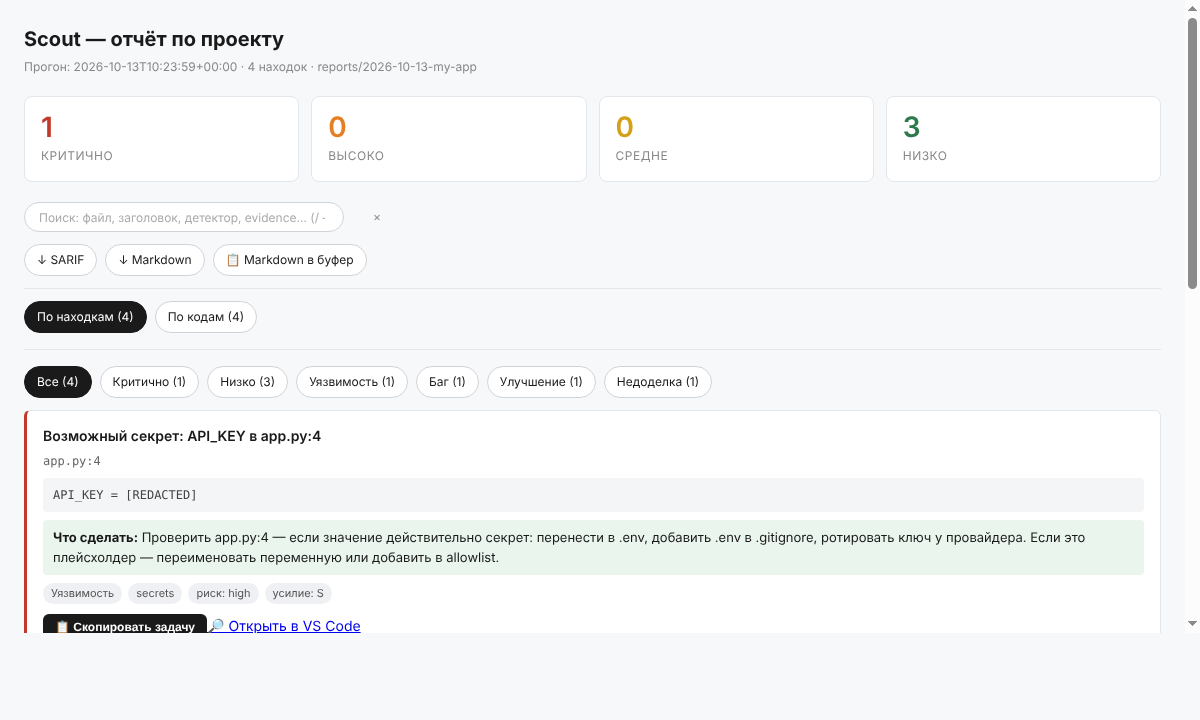
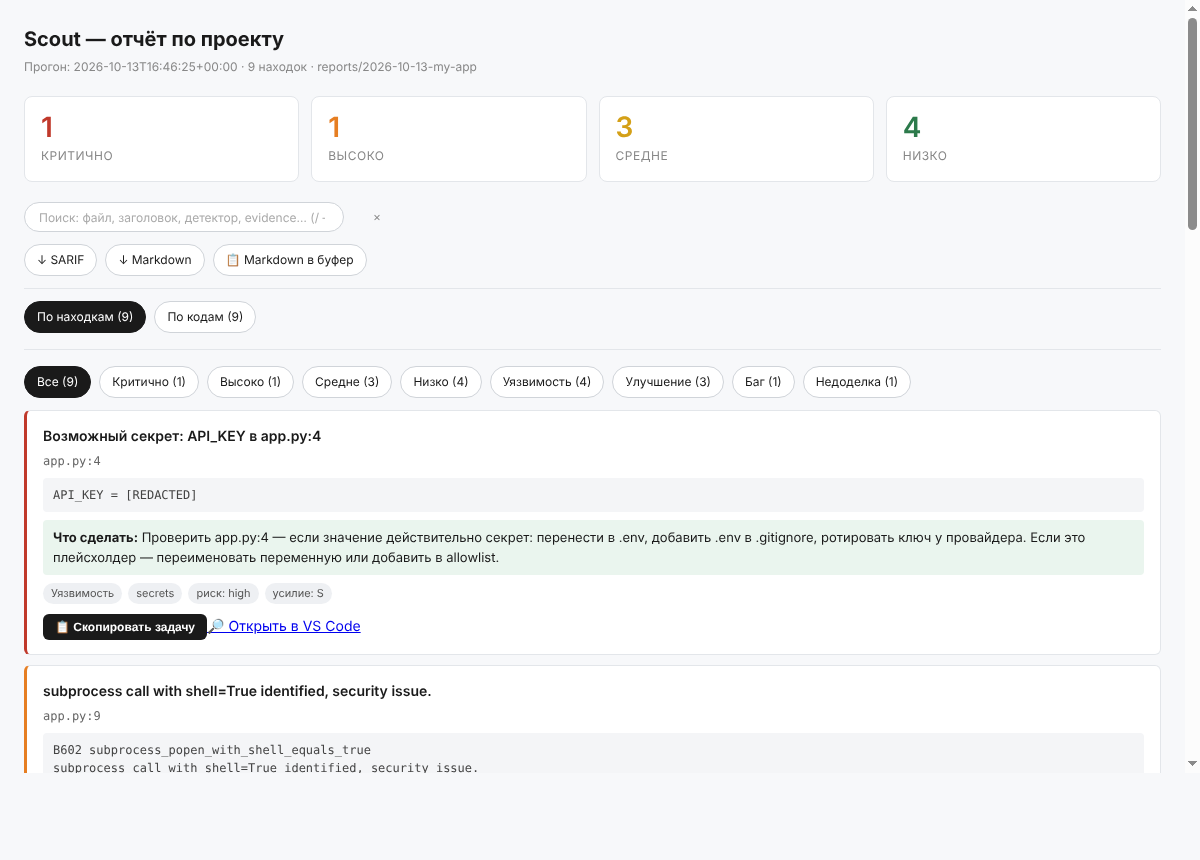
fix: interrogate detector never worked; examples on the full detector set
Running all 14 detectors for the first time (doctor.py --yes in a clean venv)
exposed two silent failures:

- interrogate: the detector called a non-existent --json flag, so it always
  returned 0 findings. It now parses the 'interrogate -v' summary table
  (excluding service dirs, ignoring empty __init__.py).
- semgrep: --config auto needs semgrep.dev and enabled metrics; without
  network it exits 2 after ~100s. Behaviour unchanged, but scan.log now says
  why, and the docs describe the requirement.

Also: examples/demo.py disables semgrep in the throwaway project (3.5 min ->
6 s with all tools installed). Docs/README examples and the dashboard
screenshot are regenerated from a real run (9 findings from 12 detectors).
Tests: interrogate table parsing; e2e tests no longer depend on which
detectors are installed and skip semgrep/pyscn (full-tools run: 231s -> 31s).

Claude-Session: https://claude.ai/code/session_011P9vmdaHSQ4VeJUeNAvU6r

diff --git a/tools/scan.py b/tools/scan.py
@@ -802,34 +802,58 @@ def detect_pip_outdated(project, log):
 
 
 
+def _parse_interrogate_table(text):
+    """Строки сводной таблицы `interrogate -v` -> [(файл, всего, пропущено, %)].
+
+    У interrogate нет машинного вывода (флага --json не существует), поэтому
+    разбираем таблицу: | файл | всего | пропущено | покрыто | покрытие% |.
+    Имя берём как всё слева от последних четырёх колонок.
+    """
+    rows = []
+    for line in text.splitlines():
+        line = line.strip()
+        if not (line.startswith("|") and line.endswith("|")):
+            continue
+        cells = [c.strip() for c in line.strip("|").split("|")]
+        if len(cells) < 5:
+            continue
+        name = "|".join(cells[:-4])
+        total, missed, _covered, pct = cells[-4:]
+        if name in ("Name", "TOTAL") or not (total.isdigit() and missed.isdigit()):
+            continue
+        try:
+            rows.append((name, int(total), int(missed), float(pct.rstrip("%"))))
+        except ValueError:
+            continue
+    return rows
+
+
 def detect_interrogate(project, log):
-    """interrogate: доля docstrings. Из JSON берём файлы с покрытием < 80%."""
+    """interrogate: доля docstrings. Берём файлы с покрытием < 80%."""
     base = _tool_cmd("interrogate", "interrogate")
     if base is None:
         log.write("  interrogate not installed — skip\n")
         return []
-    cmd = base + ["--json", "-q", str(project)]
+    excludes = []
+    for d in sorted(EXCLUDE_DIRS):
+        if (project / d).is_dir():
+            excludes += ["-e", str(project / d)]
+    # -f 0: не падать по порогу; -I: пустые __init__.py не считаем нарушением.
+    cmd = base + ["-v", "--no-color", "-f", "0", "-I", *excludes, str(project)]
     r = run(cmd, project, log, timeout=120)
     if r is None or not r.stdout:
         return []
-    try:
-        data = json.loads(r.stdout)
-    except json.JSONDecodeError as e:
-        log.write(f"  json parse error: {e}\n")
-        return []
     findings = []
-    for fname, info in (data.get("files") or {}).items():
-        cov = info.get("total", info.get("coverage", 100))
+    for fname, total, missing, cov in _parse_interrogate_table(r.stdout):
         if cov >= 80:
             continue
-        missing = info.get("missing", info.get("missing_count", 0))
         findings.append(make_finding(
             category="improvement",
             severity="low" if cov >= 50 else "medium",
             title=f"документации: {cov:.0f}% ({missing} пропущено)",
             file=_rel(project, fname),
             line=0,
-            evidence=f"coverage={cov:.1f}% missing={missing}",
+            evidence=f"coverage={cov:.1f}% missing={missing} of {total}",
             detector="interrogate",
         ))
     log.write(f"  total: {len(findings)}\n")
@@ -907,6 +931,10 @@ def detect_semgrep(project, log):
                   "--no-git-ignore", str(project)]
     r = run(cmd, project, log, timeout=300)
     if r is None or not r.stdout:
+        # Типичная причина: --config auto скачивает правила с semgrep.dev и
+        # требует включённых метрик, без сети semgrep завершается с кодом 2.
+        log.write("  semgrep дал пустой результат: нужен доступ к semgrep.dev "
+                  "(--config auto), без него детектор пропущен\n")
         return []
     try:
         data = json.loads(r.stdout)

diff --git a/tests/test_detector_parsing.py b/tests/test_detector_parsing.py
@@ -1,0 +1,44 @@
+"""Разбор вывода внешних инструментов (не требует самих инструментов)."""
+import unittest
+
+from _helpers import load_tool
+
+scan = load_tool("scan")
+
+# Реальный вывод `interrogate -v -f 0 --no-color` (версия 1.7.0), имена сокращены.
+INTERROGATE_OUTPUT = """\
+= Coverage for /work/proj/ =
+----------------------------------- Summary ------------------------------------
+| Name                     |      Total |      Miss |      Cover |      Cover% |
+|--------------------------|------------|-----------|------------|-------------|
+| a.py                     |          4 |         4 |          0 |          0% |
+| dir with space/файл.py   |          2 |         2 |          0 |          0% |
+| pkg/b.py                 |          3 |         1 |          2 |         67% |
+| pkg/ok.py                |          2 |         0 |          2 |        100% |
+|--------------------------|------------|-----------|------------|-------------|
+| TOTAL                    |         11 |         7 |          4 |       36.4% |
+---------------- RESULT: PASSED (minimum: 0.0%, actual: 36.4%) -----------------
+"""
+
+
+class InterrogateParseTest(unittest.TestCase):
+    def test_rows_are_parsed_without_header_separator_and_total(self):
+        rows = scan._parse_interrogate_table(INTERROGATE_OUTPUT)
+        self.assertEqual(rows, [
+            ("a.py", 4, 4, 0.0),
+            ("dir with space/файл.py", 2, 2, 0.0),
+            ("pkg/b.py", 3, 1, 67.0),
+            ("pkg/ok.py", 2, 0, 100.0),
+        ])
+
+    def test_empty_or_unrelated_output_gives_no_rows(self):
+        self.assertEqual(scan._parse_interrogate_table(""), [])
+        self.assertEqual(scan._parse_interrogate_table("Error: No such option '--json'"), [])
+
+    def test_name_with_pipe_character_is_kept_whole(self):
+        text = "| odd|name.py |  2 |  2 |  0 |  0% |\n"
+        self.assertEqual(scan._parse_interrogate_table(text), [("odd|name.py", 2, 2, 0.0)])
+
+
+if __name__ == "__main__":
+    unittest.main()

diff --git a/tests/test_scan_readonly.py b/tests/test_scan_readonly.py
@@ -116,8 +116,12 @@ class ScoutOneCommandTest(unittest.TestCase):
             second = run_tool("scout.py", proj, "--out", out, "--quick", "--no-open", env=env)
             self.assertEqual(second.returncode, 0, second.stderr)
             diff = json.loads((out / "diff.json").read_text("utf-8"))
-            self.assertEqual(diff["summary"]["fixed"], 1)
-            self.assertGreaterEqual(diff["summary"]["same"], 1)
+            # Сколько всего исправлено, зависит от установленных детекторов
+            # (например, interrogate тоже перестаёт ругаться): проверяем смысл.
+            fixed = {f["detector"] for f in diff["fixed"]}
+            self.assertIn("todo-fixme", fixed)
+            self.assertGreaterEqual(diff["summary"]["same"], 1)  # секрет остался
+            self.assertNotIn("secrets", fixed)
 
             html = (out / "dashboard.html").read_text("utf-8")
             self.assertIn("window.STATE=", html)
@@ -134,6 +138,8 @@ class ScoutOneCommandTest(unittest.TestCase):
 
             b = tmp / "other"
             b.mkdir()
+            (b / ".scoutrc").write_text(
+                '{"skip_detectors": ["semgrep", "pyscn"]}', encoding="utf-8")
             (b / "x.py").write_text("x = 1\n", encoding="utf-8")
             r = run_tool("scout.py", b, "--out", out, "--quick", "--no-open", env=env)
             self.assertEqual(r.returncode, 0, r.stderr)

diff --git a/examples/demo.py b/examples/demo.py
@@ -9,6 +9,8 @@
   4. Считает diff между двумя прогонами и пересобирает дашборд.
 
 Свой проект и сам Scout не изменяются: всё пишется во временную папку.
+В учебном проекте отключён semgrep: он ходит на semgrep.dev за правилами,
+это долго и без сети не работает (в своих проектах он включён как обычно).
 
 Использование:
     python examples/demo.py            # весь цикл, путь к дашборду в конце
@@ -110,6 +112,7 @@ def main():
 
     print("== 1. Учебный проект с проблемами:", project)
     (project / "app.py").write_text(BAD_APP, encoding="utf-8")
+    (project / ".scoutrc").write_text('{"skip_detectors": ["semgrep"]}\n', encoding="utf-8")
 
     print("\n== 2. Первый скан")
     out = run_tool("scan.py", project, "--out", reports, "--quick", "--run-name", "run-1")

diff --git a/tests/test_skill_layout.py b/tests/test_skill_layout.py
@@ -46,6 +46,9 @@ class InstalledCopyTest(unittest.TestCase):
                     shutil.copy(src, skill / name)
             shutil.copy(ROOT / "tools" / "dashboard.html", skill / "tools" / "dashboard.html")
             (tmp / "userproj" / "a.py").write_text(f"# {TODO}: x\n", encoding="utf-8")
+            # Медленные сетевые детекторы тесту не нужны.
+            (tmp / "userproj" / ".scoutrc").write_text(
+                '{"skip_detectors": ["semgrep", "pyscn"]}', encoding="utf-8")
 
             env = {**os.environ, "SCOUT_CACHE_DIR": str(tmp / "cache")}
             check = subprocess.run(

diff --git a/docs/examples.md b/docs/examples.md
@@ -28,37 +28,48 @@ def load(expr):
     return eval(expr)              # <- eval пользовательского ввода
 ```
 
-Результат скана (только `ruff` + встроенные детекторы, остальные не установлены):
+Результат скана (12 детекторов: все, кроме `semgrep` и медленных `pytest-failed` и
+`pip-audit`, которые пропускает `--quick`; путь к папке прогона сокращён):
 
 ```
-scout: 4 findings → reports/run-1  (2.1s)
+scout: 9 findings → reports/run-1  (3.6s)
   critical 1
-  low      3
+  high     1
+  medium   3
+  low      4
 ```
 
-| Severity | Детектор | Где | Предложение Scout |
+| Severity | Детектор | Где | Предложение Scout (сокращённо) |
 |---|---|---|---|
-| critical | `secrets` | `app.py:4` | Проверить: если это секрет, перенести в `.env`, добавить `.env` в `.gitignore`, ротировать ключ |
-| low | `ruff` | `app.py:1` | F401 (неиспользуемый импорт): `ruff check --fix`, затем проверить diff |
+| critical | `secrets` | `app.py:4` | Если это секрет: перенести в `.env`, добавить `.env` в `.gitignore`, ротировать ключ у провайдера |
+| high | `bandit` | `app.py:9` | `subprocess` с `shell=True` (B602): заменить на вызов без shell |
+| medium | `detect-secrets` | `app.py:4` | Тот же ключ, найденный по энтропии: ротировать, вынести в `.env` |
+| medium | `bandit` | `app.py:13` | `eval` (B307): заменить на `ast.literal_eval` |
+| medium | `interrogate` | `app.py` | Нет docstring (0%, 3 пропущено): добавить |
+| low | `ruff` | `app.py:1` | F401, неиспользуемый импорт: `ruff check --fix`, затем проверить diff |
+| low | `vulture` | `app.py:1` | Тот же `import os` как мёртвый код: проверить `grep`, удалить |
 | low | `ruff` | `app.py:9` | PLW1510: `subprocess.run` без `check` |
 | low | `todo-fixme` | `app.py:8` | Реализовать пометку или удалить |
 
-С установленным `bandit` добавятся ещё находки про `shell=True` и `eval`
-(`python tools/doctor.py` поставит недостающее).
+Обратите внимание: один и тот же ключ нашли два независимых детектора (`secrets` по
+шаблону имени, `detect-secrets` по энтропии), а `import os` увидели `ruff` и `vulture`.
+Это не ошибка: детекторы независимы, а дубли удобно отсеивать во вкладке «По коду».
 
 ## Пример 2. Было → стало (diff)
 
-После исправлений (ключ из окружения, `ast.literal_eval`, `check=True`):
+После исправлений (ключ из окружения, `ast.literal_eval`, `check=True`, без `shell=True`):
 
 ```
-scout: 1 findings → reports/run-2
+scout: 2 findings → reports/run-2  (2.1s)
+  medium   1
   low      1
 
-diff: new=1 fixed=4 same=0
+diff: new=1 fixed=8 same=1
 ```
 
-Исправлены четыре находки, появилась одна новая: оставленный `TODO: add timeout`.
-В дашборде на вкладке **Diff** они помечены как *fixed* и *new*.
+Исправлено восемь находок. Осталась одна старая (`interrogate`: docstring так и нет,
+в diff она «не изменилась») и появилась одна новая: оставленный `TODO: add timeout`.
+В дашборде на вкладке **Diff** они помечены как *fixed*, *same* и *new*.
 
 ## Рецепт: проверка перед релизом
 

diff --git a/docs/troubleshooting.md b/docs/troubleshooting.md
@@ -15,6 +15,7 @@ python tools/doctor.py --check      # какие детекторы доступ
 |---|---|
 | `python: command not found` на Linux/macOS | используйте `python3` вместо `python` |
 | `scout.py`: «не удалось определить папку нового прогона» | в `--out` одновременно создаётся несколько прогонов (параллельный запуск). Запускайте `scout.py` по одному на каталог отчётов |
+| `semgrep` долго работает и ничего не находит | `--config auto` скачивает правила с semgrep.dev и требует включённых метрик. Без сети детектор пропускается (в `scan.log` есть пометка). Отключите его: `"skip_detectors": ["semgrep"]` |
 | `0 findings`, хотя проект явно неидеален | почти все детекторы не установлены. Откройте `scan.log`: там `not installed — skip`. Запустите `python tools/doctor.py` |
 | Дашборд открывается, но пустой или со старыми данными | не выполнен `render.py` и/или `sync.py` после последнего скана. Повторите оба |
 | `state.js not found: …` | сначала `python tools/render.py <прогон>`; `sync.py` принимает **каталог отчётов**, а не папку прогона |

diff --git a/README.ru.md b/README.ru.md
@@ -47,9 +47,11 @@ python tools/scout.py ~/projects/my-app   # скан, предложения, di
 прогон этого проекта и заполнит вкладку **Diff**. Реальный вывод:
 
 ```
-scout: 4 findings → .scout/2026-10-13-my-app  (2.1s)
+scout: 9 findings → .scout/2026-10-13-my-app  (3.6s)
   critical 1
-  low      3
+  high     1
+  medium   3
+  low      4
 
 Дашборд: .scout/dashboard.html
 ```

diff --git a/README.md b/README.md
@@ -50,9 +50,11 @@ no server needed). Run it again after fixing things: it finds the previous run o
 same project by itself and fills the **Diff** tab. Real output:
 
 ```
-scout: 4 findings → .scout/2026-10-13-my-app  (2.1s)
+scout: 9 findings → .scout/2026-10-13-my-app  (3.6s)
   critical 1
-  low      3
+  high     1
+  medium   3
+  low      4
 
 Дашборд: .scout/dashboard.html
 ```

diff --git a/docs/guide.md b/docs/guide.md
@@ -181,7 +181,7 @@ python tools/sync.py    ./reports
 Реальный вывод (из `python examples/demo.py`):
 
 ```
-diff: new=1 fixed=4 same=0 -> reports/diff.json
+diff: new=1 fixed=8 same=1 -> reports/diff.json
 ```
 
 Сопоставление идёт по `fingerprint` (`детектор:файл:строка:заголовок`), поэтому
